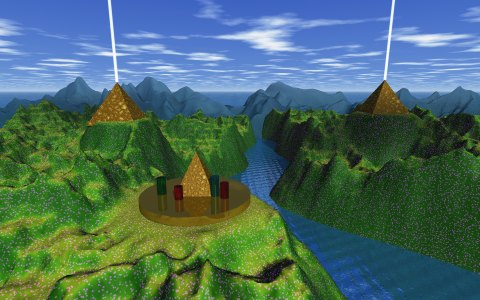
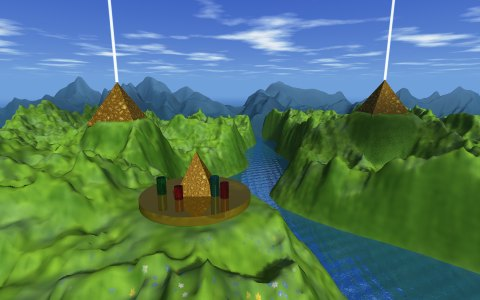
0.40.0: a Flowers texture for Pyramid Valley's meadow; terrain without contour lines

diff --git a/src/world/showcase/valley.ts b/src/world/showcase/valley.ts
@@ -1,7 +1,7 @@
 import { hexToRgb as h } from '../../core/color';
 import type { Vec3 } from '../../core/vec3';
 import { TEXTURED_COLOR, material, texture } from '../../model/material.factory';
-import { ChannelSource, ColorChannel, SkyMode, TextureKind, TextureMapping } from '../../model/scene.enums';
+import { SkyMode, TextureKind, TextureMapping } from '../../model/scene.enums';
 import type { Key, Scene, SceneObject, TerrainData, Transform } from '../../model/scene.types';
 import { type Field, field, sample } from '../terrain/heightfield';
 import { Noise2D } from '../terrain/noise2d';
@@ -36,15 +36,12 @@ const HILLS: readonly { u: number; v: number; r: number; peak: number; pad: numb
 ];
 const PAD_EDGE = 1.8;
 
-/** Lime on the flat tops, deep green down the faces, purple flowers glowing in the ambient light. */
+/** Grass, lime on the gentle ground and deep green down the faces, with cornflowers, daisies and buttercups in clumps. */
 const MEADOW = material({
   name: 'Valley Meadow',
-  textures: [
-    texture(TextureKind.Slope, 1, [h('#d8ec3a'), h('#4aa418'), h('#15560c')], { detail: 4 }),
-    texture(TextureKind.Spots, 5, [h('#0a2a04'), h('#0a2a04'), h('#ff30ff')], { detail: 2, contrast: 70 }),
-  ],
-  colorSources: { ...TEXTURED_COLOR, [ColorChannel.Ambient]: ChannelSource.TexB },
-  values: { diffusion: 94, ambience: 55, specularity: 6 },
+  textures: [texture(TextureKind.Flowers, 1.4, [h('#2a5a12'), h('#94c234'), h('#4a74ff')], { detail: 5 })],
+  colorSources: TEXTURED_COLOR,
+  values: { diffusion: 94, ambience: 40, specularity: 6 },
 });
 const RIVER_WATER = material({
   name: 'River Blue',

diff --git a/src/render/gpu/trace-source.ts b/src/render/gpu/trace-source.ts
@@ -1,6 +1,7 @@
 import header from './glsl/00-header.glsl?raw';
 import noise from './glsl/10-noise.glsl?raw';
 import sheen from './glsl/15-sheen.glsl?raw';
+import flowers from './glsl/16-flowers.glsl?raw';
 import textures from './glsl/20-textures.glsl?raw';
 import shapes from './glsl/30-shapes.glsl?raw';
 import terrain from './glsl/35-terrain.glsl?raw';
@@ -13,7 +14,7 @@ import portals from './glsl/70-portals.glsl?raw';
 import main from './glsl/90-main.glsl?raw';
 
 /** The ray tracer: one fragment shader, the files of glsl/ in order. */
-export const TRACE_SOURCE = [header, noise, sheen, textures, shapes, terrain, lathe, portalShape, sceneGlsl, sky, shade, portals, main].join('\n');
+export const TRACE_SOURCE = [header, noise, sheen, flowers, textures, shapes, terrain, lathe, portalShape, sceneGlsl, sky, shade, portals, main].join('\n');
 
 /** The line of 00-header.glsl after which a variant's #defines go: before anything reads them. */
 export const DEFINES_AT = "// engine.ts inserts a variant's #defines (FAST_PREVIEW, GAME_TRACE) after this line.";

diff --git a/src/render/__tests__/texture-codes.test.ts b/src/render/__tests__/texture-codes.test.ts
@@ -1,0 +1,20 @@
+import { describe, expect, it } from 'vitest';
+import { TextureKind } from '../../model/scene.enums';
+import { TRACE_SOURCE } from '../gpu/trace-source';
+
+/** The shader's T_ codes by name, folded like the enum's keys (T_FACADE_GLASS: facadeglass). */
+function shaderCodes(): Map<string, number> {
+  const codes = new Map<string, number>();
+  for (const m of TRACE_SOURCE.matchAll(/^#define T_(\w+) (\d+)$/gm)) codes.set(m[1].replace(/_/g, '').toLowerCase(), Number(m[2]));
+  return codes;
+}
+
+describe('texture kinds', () => {
+  it('each have the code the ray tracer draws them by', () => {
+    const codes = shaderCodes();
+    for (const [name, kind] of Object.entries(TextureKind)) {
+      if (typeof kind !== 'number') continue;
+      expect([name, codes.get(name.toLowerCase())]).toEqual([name, kind]);
+    }
+  });
+});

diff --git a/src/assets/materials.presets.ts b/src/assets/materials.presets.ts
@@ -124,7 +124,7 @@ const terrains: Material[] = [
   }),
   material({
     name: 'Flower Meadow',
-    textures: [texture(TextureKind.Spots, 9, [h('#2f7a16'), h('#86c22c'), h('#a35ad8')], { detail: 2, contrast: 30 })],
+    textures: [texture(TextureKind.Flowers, 4, [h('#2a6a14'), h('#7fb82a'), h('#4a74ff')], { detail: 4 })],
     colorSources: TEXTURED_COLOR,
     values: { diffusion: 88, ambience: 22, specularity: 6 },
   }),

diff --git a/src/model/scene.enums.ts b/src/model/scene.enums.ts
@@ -71,6 +71,8 @@ export enum TextureKind {
   FacadeGlass = 19,
   /** About a third of the panes (1 where lit): drive ambience for windows lit at night. Keep its seed the Facade's: a seed shifts the windows. */
   FacadeLit = 20,
+  /** A meadow: grass in the first two colours with flowers of the third in clumps, some pale, some yellow; Detail sets how many. */
+  Flowers = 21,
 }
 
 export enum TextureMapping {

diff --git a/src/ui/labs/texture-labels.ts b/src/ui/labs/texture-labels.ts
@@ -23,6 +23,7 @@ export const TEXTURE_KIND_LABELS: Readonly<Record<TextureKind, string>> = {
   [TextureKind.Facade]: 'Facade',
   [TextureKind.FacadeGlass]: 'Facade Glass',
   [TextureKind.FacadeLit]: 'Facade Lit Windows',
+  [TextureKind.Flowers]: 'Flowers',
 };
 
 export const MAPPING_LABELS: Readonly<Record<TextureMapping, string>> = {

diff --git a/CHANGELOG.md b/CHANGELOG.md
@@ -1,5 +1,21 @@
 # Changelog
 
+## 0.40.0 - 2026-10-14
+
+### Added
+- A Flowers texture: grass in two greens with flowers in clumps, each with five or six
+  petals and a heart, some in the main colour, some pale, some buttercup yellow. They grow
+  on gentle ground only; Detail sets how many. Far off they blend into the meadow's colour
+  instead of glittering.
+
+### Changed
+- Pyramid Valley's meadow is the new Flowers (cornflowers, daisies and buttercups) instead
+  of glowing purple dots, and so is the Flower Meadow material.
+
+### Fixed
+- Terrain close up no longer shows dark contour lines: a shadow ray started inside the
+  ground and met it.
+
 ## 0.39.0 - 2026-10-14
 
 ### Changed
